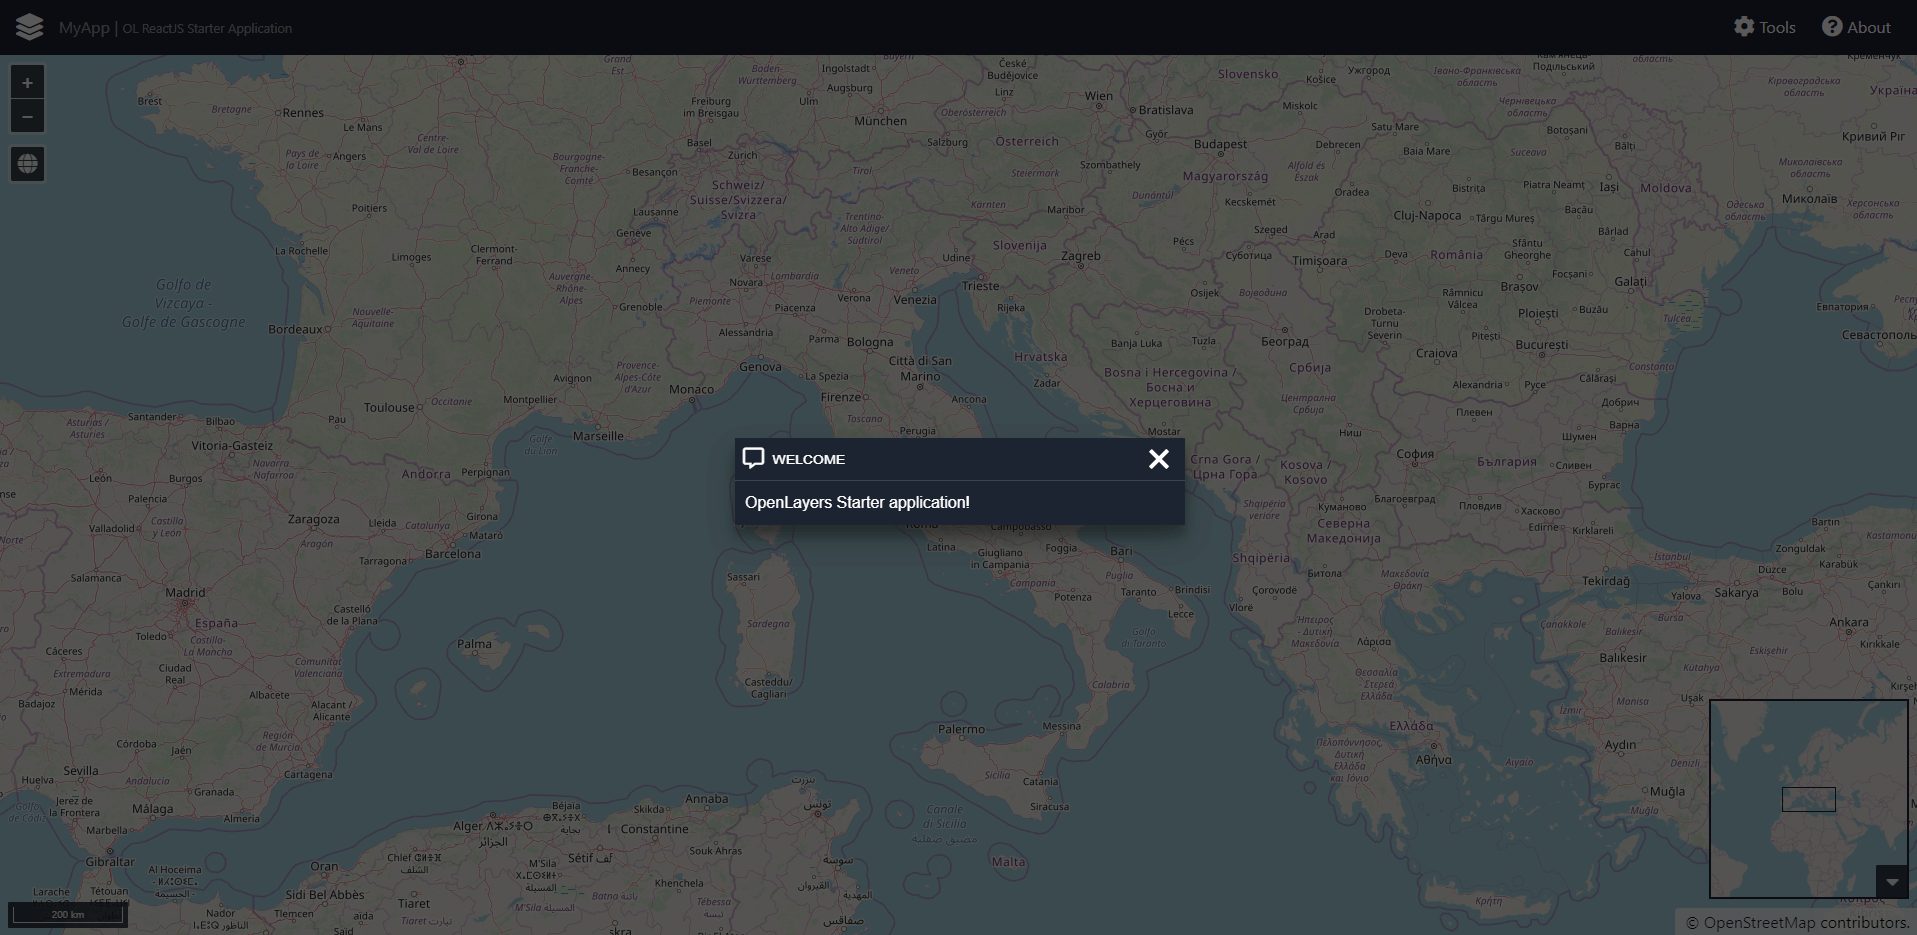
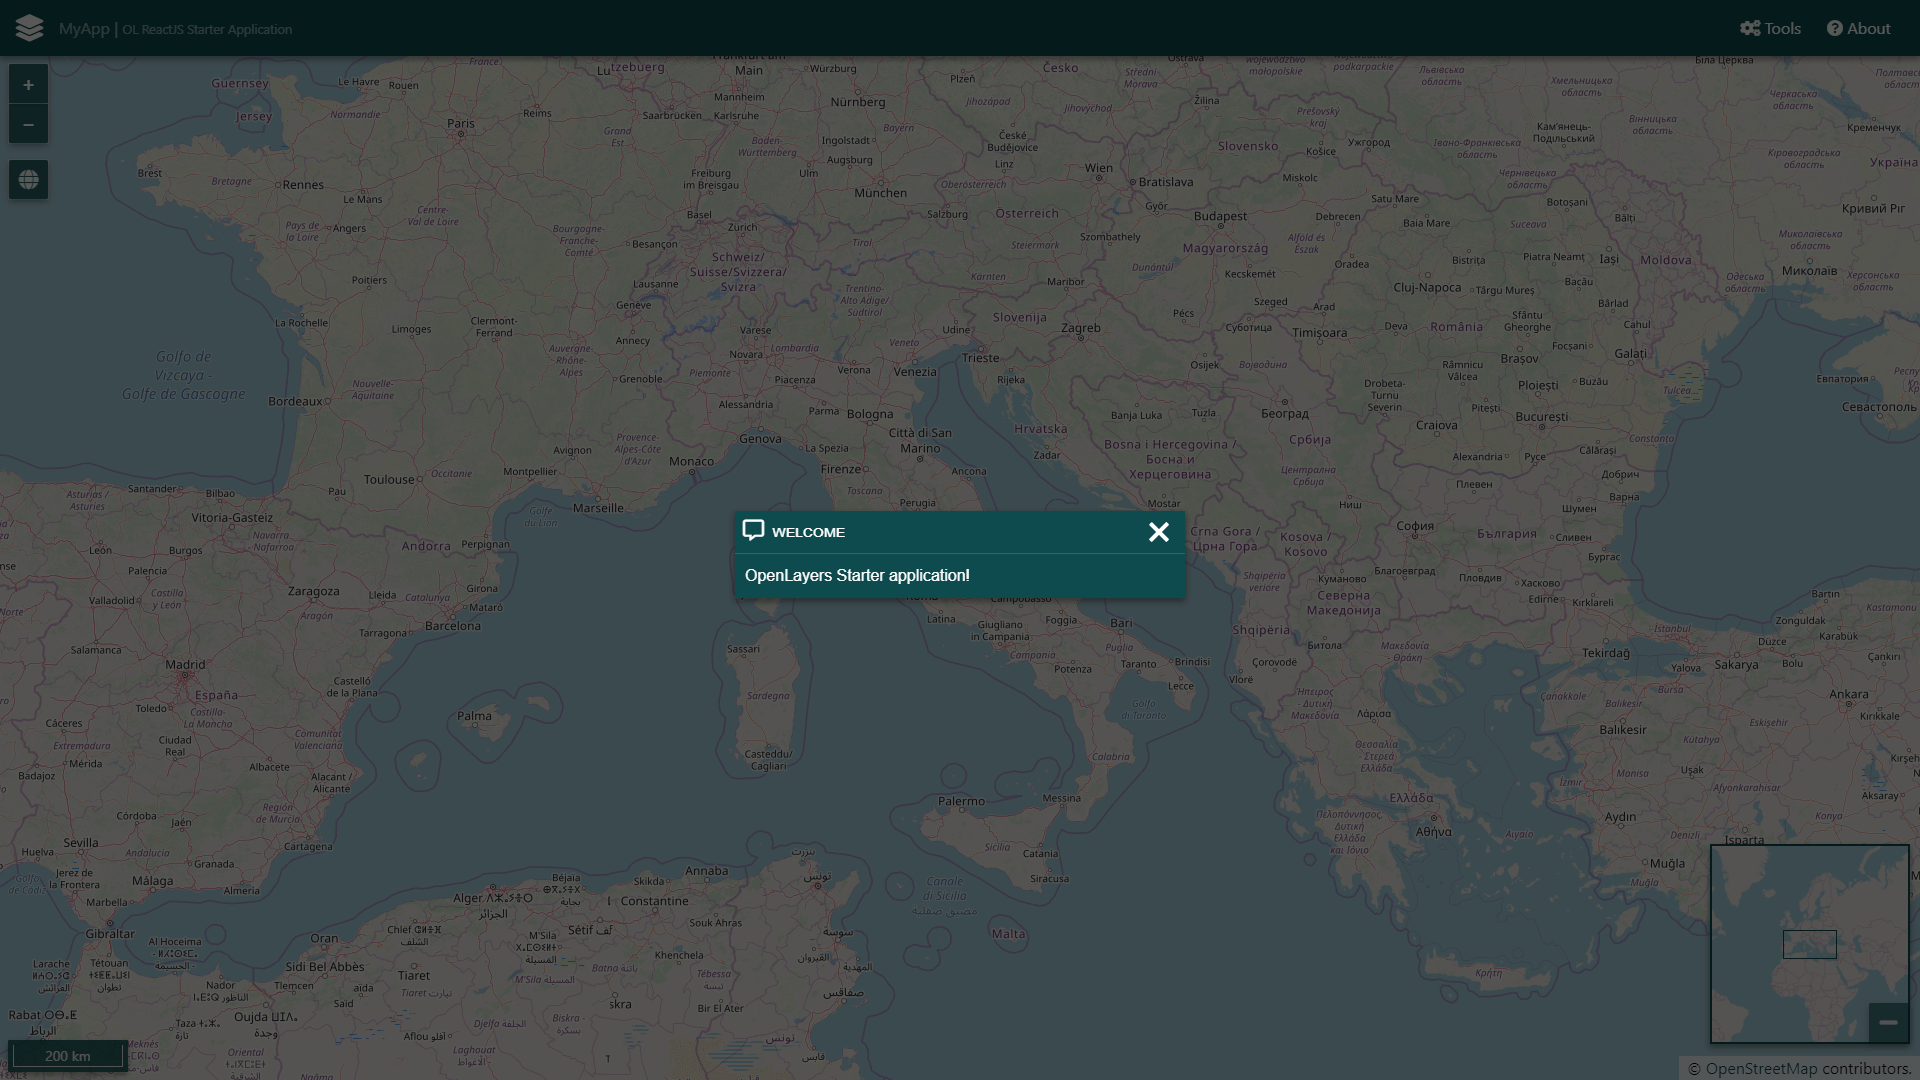
Styling refined

diff --git a/src/index.scss b/src/index.scss
@@ -1,11 +1,12 @@
 /* App variables */
-$app-base-color:rgb(5, 65, 114);
+$app-base-color:#0D4A4D;
 
 /* Bootstrap */
 $theme-colors: (
   "primary": $app-base-color,
+  "secondary": #417E80,
   "danger": #C0392B,
-  "custom": #16A085
+  "custom": #003133
 );
 
 $border-radius: 2px;

diff --git a/src/styles/_map.scss b/src/styles/_map.scss
@@ -58,6 +58,7 @@
     right: 3px !important;
     border-radius: 0px !important;
     border-top-left-radius: 2px !important;
+    opacity:0.65 !important;
 }
 
 .ol-overviewmap:not(.ol-collapsed) {
